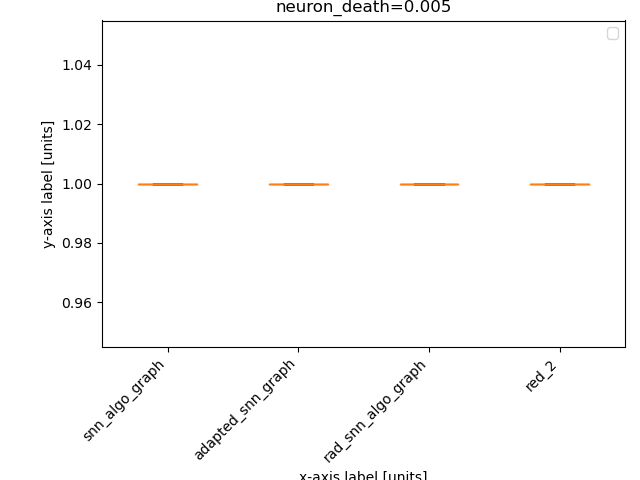
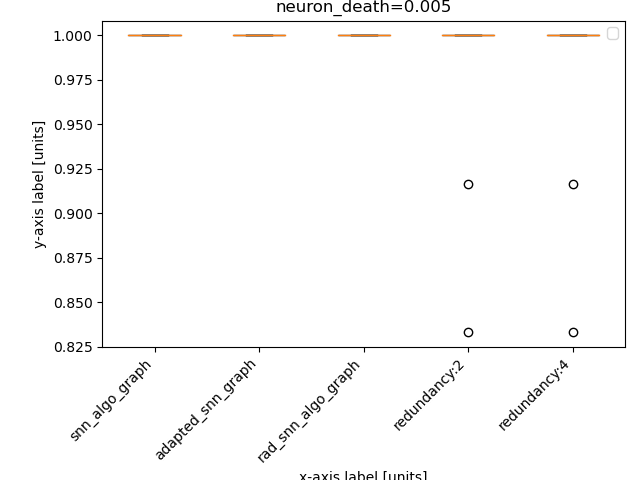
Inspected boxplots.

diff --git a/src/snncompare/export_results/analysis/create_performance_plots.py b/src/snncompare/export_results/analysis/create_performance_plots.py
@@ -6,6 +6,7 @@ the performance of the SNNs."""
 import copy
 import pickle  # nosec
 from pathlib import Path
+from pprint import pprint
 from typing import Dict, List, Tuple
 
 from easyplot.box_plot.box_plot import create_box_plot
@@ -53,6 +54,8 @@ class Boxplot_data:
         self.x_series: List[Boxplot_x_val] = x_series
 
 
+# pylint: disable=R0912
+# pylint: disable=R0914
 @typechecked
 def create_performance_plots(exp_config: Exp_config) -> None:
     """Ensures all performance boxplots are created."""
@@ -93,10 +96,52 @@ def create_performance_plots(exp_config: Exp_config) -> None:
     print("Loaded run_configs")
 
     count: int = 0
-    for adaptation, radiation in get_adaptation_and_radiations(exp_config):
-        print(f"adaptation={adaptation}")
+    adaptations_radiations = get_adaptation_and_radiations(exp_config)
+    radiations = list(map(lambda x: x[1], adaptations_radiations))
+
+    unique_radiations = [
+        dict(t) for t in {tuple(d.items()) for d in radiations}
+    ]
+    adaptations_per_radiation: List = []
+    for i, unique_rad in enumerate(unique_radiations):
+        adaptations_per_radiation.append([])
+    for i, unique_rad in enumerate(unique_radiations):
+        for adaptation, radiation in adaptations_radiations:
+            if unique_rad == radiation:
+                adaptations_per_radiation[i].append(adaptation)
+    rad_adap_dict: Dict = {}
+    print(f"adaptations_per_radiation={adaptations_per_radiation}")
+    pprint(rad_adap_dict)
+
+    # Sort the unique_radiations.
+    keys = list(map(lambda x: list(x.keys()), unique_radiations))
+    print(keys)
+    unique_keys = []
+    for elem in keys:
+        for key in elem:
+            if key not in unique_keys:
+                unique_keys.append(key)
+
+    for unique_key in unique_keys:
+        # pylint: disable=W0640
+        sorted_radiations = sorted(
+            unique_radiations, key=lambda d: d[unique_key]
+        )
+    print(f"sorted_radiations={sorted_radiations}")
+    original_order = []
+    for radiation in sorted_radiations:
+        for value in radiation.values():
+            for i, original_radiation in enumerate(unique_radiations):
+                for key, val in original_radiation.items():
+                    if value == val:
+                        original_order.append(i)
+    print(f"original_order={original_order}")
+
+    for i in original_order:
+        radiation = unique_radiations[i]
         for radiation_name, radiation_value in reversed(radiation.items()):
             count = count + 1
+
             print(f"radiation={radiation}")
 
             # Get run configs belonging to this radiation type/level.
@@ -109,7 +154,7 @@ def create_performance_plots(exp_config: Exp_config) -> None:
             boxplot_data: Dict[
                 str, Dict[int, Boxplot_x_val]
             ] = get_boxplot_datapoints(
-                adaptation=adaptation,
+                adaptations=adaptations_per_radiation[i],
                 wanted_run_configs=wanted_run_configs,
                 seeds=exp_config.seeds,
             )
@@ -158,7 +203,7 @@ def get_completed_and_missing_run_configs(
 
 @typechecked
 def get_boxplot_datapoints(
-    adaptation: Dict[str, int],
+    adaptations: List[Dict[str, int]],
     wanted_run_configs: List[Run_config],
     # run_config_nx_graphs: Dict,
     seeds: List[int],
@@ -166,7 +211,7 @@ def get_boxplot_datapoints(
     """Returns the run configs that still need to be ran."""
 
     boxplot_data: Dict[str, Dict[int, Boxplot_x_val]] = get_mdsa_boxplot_data(
-        adaptation=adaptation,
+        adaptations=adaptations,
         graph_names=get_expected_stage_1_graph_names(wanted_run_configs[0]),
         seeds=seeds,
     )
@@ -174,38 +219,37 @@ def get_boxplot_datapoints(
     # Create x-axis categories (no redundancy, n-redundancy).
     # for run_config, graphs_dict in run_config_nx_graphs.items():
     for wanted_run_config in wanted_run_configs:
-        if wanted_run_config.adaptation == adaptation:
-            # Get the results per x-axis category per graph type.
-            for algo_name in wanted_run_config.algorithm.keys():
-                if algo_name == "MDSA":
+        # Get the results per x-axis category per graph type.
+        for algo_name in wanted_run_config.algorithm.keys():
+            if algo_name == "MDSA":
 
-                    graph_names = get_expected_stage_1_graph_names(
-                        wanted_run_config
-                    )
-                    graphs_dict: Dict = load_verified_json_graphs_from_json(
-                        run_config=wanted_run_config,
-                        expected_stages=[1, 2, 4],
-                    )
+                graph_names = get_expected_stage_1_graph_names(
+                    wanted_run_config
+                )
+                graphs_dict: Dict = load_verified_json_graphs_from_json(
+                    run_config=wanted_run_config,
+                    expected_stages=[1, 2, 4],
+                )
 
-                    x_labels, results = get_x_labels(
-                        adaptation=adaptation,
-                        graphs_dict=graphs_dict,
-                        graph_names=graph_names,
+                x_labels, results = get_x_labels(
+                    adaptations=adaptations,
+                    graphs_dict=graphs_dict,
+                    graph_names=graph_names,
+                )
+                for x_label in x_labels:
+                    add_graph_scores(
+                        boxplot_data=boxplot_data,
+                        x_label=x_label,
+                        result=results[x_label],
+                        seed=wanted_run_config.seed,
                     )
-                    for x_label in x_labels:
-                        add_graph_scores(
-                            boxplot_data=boxplot_data,
-                            graph_type=x_label,
-                            result=results[x_label],
-                            seed=wanted_run_config.seed,
-                        )
 
     return boxplot_data
 
 
 @typechecked
 def get_x_labels(
-    adaptation: Dict[str, int],
+    adaptations: List[Dict[str, int]],
     graphs_dict: Dict,
     graph_names: List[str],
 ) -> Tuple[List[str], Dict]:
@@ -214,8 +258,12 @@ def get_x_labels(
     results = {}
     for graph_name in graph_names:
         if graph_name == "rad_adapted_snn_graph":
-            x_labels.append(f'red_{adaptation["redundancy"]}')
-            results[x_labels[-1]] = graphs_dict[graph_name]["graph"]["results"]
+            for adaptation in adaptations:
+                for name, value in adaptation.items():
+                    x_labels.append(f"{name}:{value}")
+                    results[x_labels[-1]] = graphs_dict[graph_name]["graph"][
+                        "results"
+                    ]
         elif graph_name != "input_graph":
             x_labels.append(graph_name)
             results[x_labels[-1]] = graphs_dict[graph_name]["graph"]["results"]
@@ -225,20 +273,20 @@ def get_x_labels(
 @typechecked
 def add_graph_scores(
     boxplot_data: Dict[str, Dict[int, Boxplot_x_val]],
-    graph_type: str,
+    x_label: str,
     result: Dict,
     seed: int,
 ) -> None:
     """Adds the scores for the graphs.."""
     if result["passed"]:
-        boxplot_data[graph_type][seed].correct_results += 1
+        boxplot_data[x_label][seed].correct_results += 1
     else:
-        boxplot_data[graph_type][seed].wrong_results += 1
+        boxplot_data[x_label][seed].wrong_results += 1
 
 
 @typechecked
 def get_mdsa_boxplot_data(
-    adaptation: Dict[str, int],
+    adaptations: List[Dict[str, int]],
     graph_names: List[str],
     seeds: List[int],
 ) -> Dict[str, Dict[int, Boxplot_x_val]]:
@@ -252,18 +300,13 @@ def get_mdsa_boxplot_data(
     boxplot_data: Dict[str, Dict[int, Boxplot_x_val]] = {}
     for graph_name in graph_names:
         if graph_name == "rad_adapted_snn_graph":
-            boxplot_data[f'red_{adaptation["redundancy"]}'] = copy.deepcopy(
-                x_series_data
-            )
+            for adaptation in adaptations:
+                for name, value in adaptation.items():
+                    boxplot_data[f"{name}:{value}"] = copy.deepcopy(
+                        x_series_data
+                    )
         elif graph_name != "input_graph":
             boxplot_data[graph_name] = copy.deepcopy(x_series_data)
-    # boxplot_data: Dict[str, Dict[int, Boxplot_x_val]] = {
-    # "snn_algo_graph": copy.deepcopy(x_series_data),
-    # "adapted_snn_graph": copy.deepcopy(x_series_data),
-    # "rad_snn_algo_graph": copy.deepcopy(x_series_data),
-    # "rad_adapted_snn_graph": copy.deepcopy(x_series_data),
-    # }
-
     return boxplot_data
 
 

diff --git a/src/snncompare/exp_config/run_config/Run_config.py b/src/snncompare/exp_config/run_config/Run_config.py
@@ -10,17 +10,58 @@ else:
     pass
 
 
+# pylint: disable=R0903
 class Algorithm(TypedDict):
     """Example typed dict to make the property types explicit."""
 
     alg_name: Dict[str, int]
 
 
-class Adaptation(TypedDict):
-    """Example typed dict to make the property types explicit."""
+# pylint: disable=R0903
+class Adaptation:
+    """Adaptations."""
 
-    redundancy: int
-    population: int
+    @typechecked
+    def __init__(
+        self,
+        name: str,
+        int_param: Optional[int],
+    ):
+        if name == "Redundancy":
+            self.name = name
+            self.adaptation = Redundancy(int_param)
+        else:
+            raise TypeError("Error, adaptation:{name} not yet supported.")
+
+
+# pylint: disable=R0903
+class Redundancy:
+    """Adaptation example."""
+
+    @typechecked
+    def __init__(self, redundancy: int):
+        if redundancy < 2:
+            raise ValueError("Error, redundancy should be 2 or larger.")
+        if redundancy % 2 == 1:
+            raise ValueError("Error, redundancy should be even integer.")
+        self.redundancy = redundancy
+
+
+# pylint: disable=R0903
+class Neuron_death:
+    """Adaptation example."""
+
+    @typechecked
+    def __init__(self, probability: float):
+        if probability < 0:
+            raise ValueError(
+                "Error, neuron death probability should be 0 or larger."
+            )
+        if probability > 1:
+            raise ValueError(
+                "Error, neuron death probability should be 1 or smaller."
+            )
+        self.probability = probability
 
 
 class Radiation(TypedDict):
